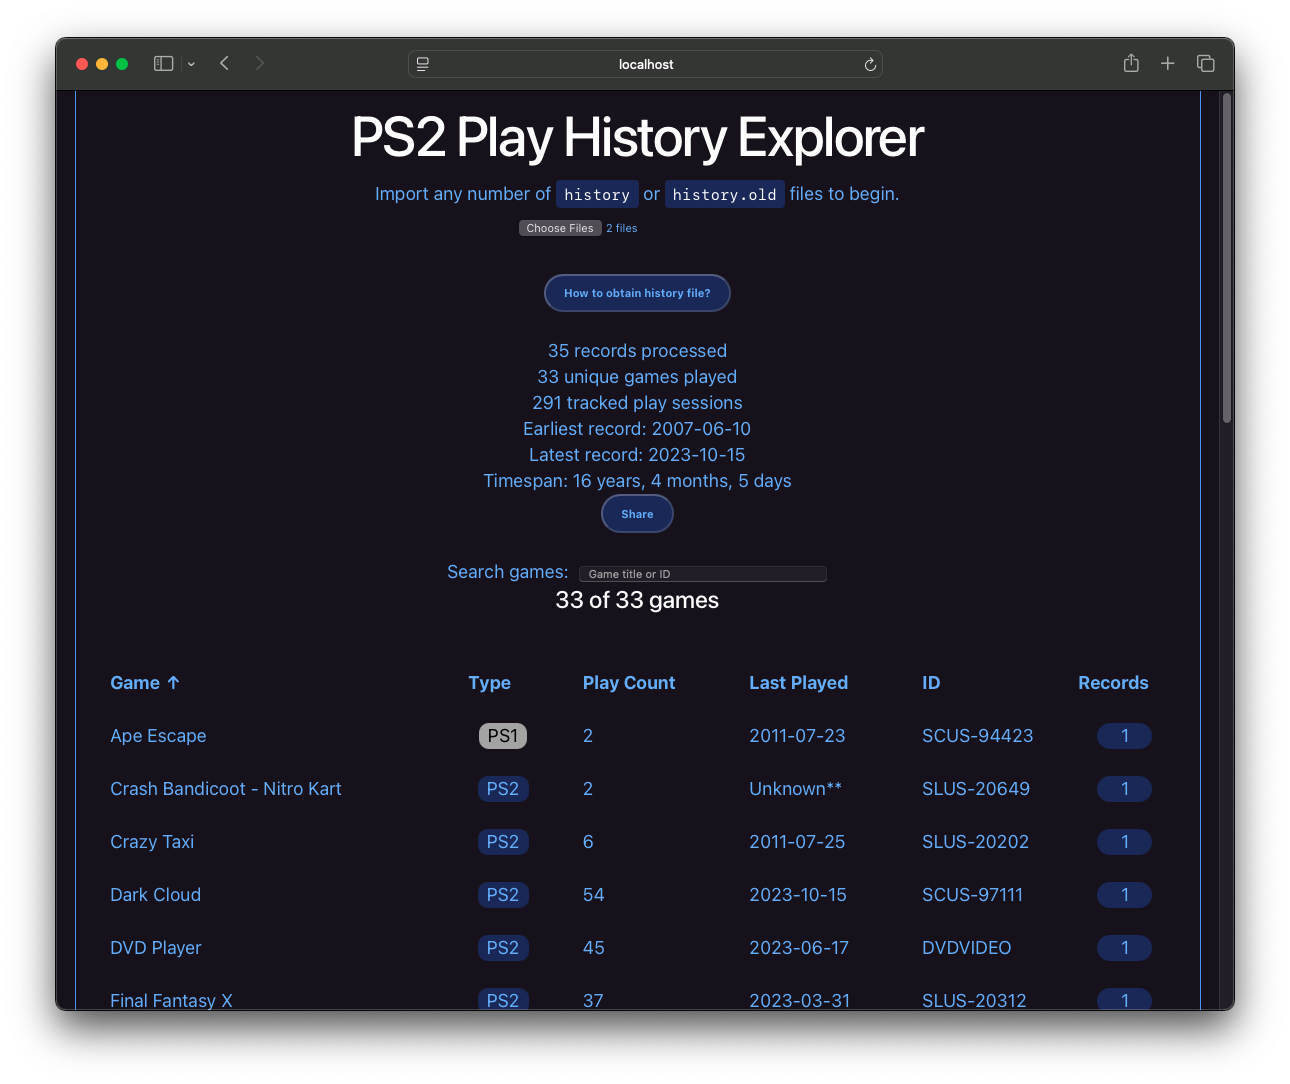
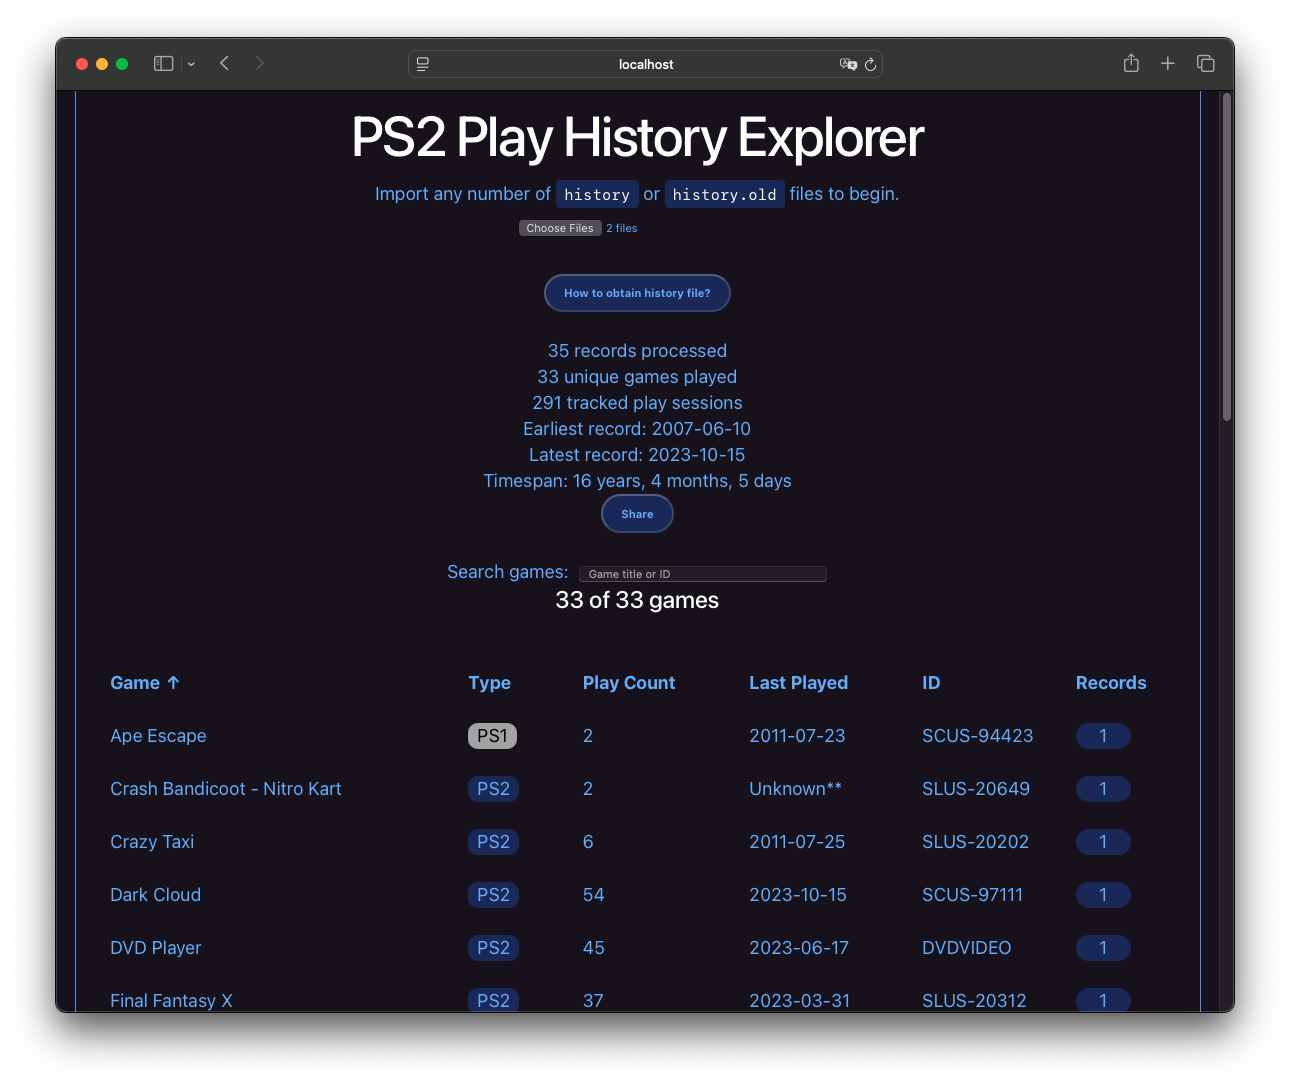
Cleaner error handling

diff --git a/src/App.tsx b/src/App.tsx
@@ -18,6 +18,7 @@ function App() {
   // States
   const [entries, setEntries] = useState<PlayHistoryEntry[]>([]);
   const [error, setError] = useState<string | null>(null);
+  const [imageShareError, setImageShareError] = useState<string | null>(null);
   const [games, setGames] = useState<GameSummary[]>([]);
   const [selectedGameId, setSelectedGameId] = useState<string | null>(null);
   const [sortColumn, setSortColumn] = useState<
@@ -84,7 +85,10 @@ function App() {
     } catch (err) {
       setIsDatabaseLoading(false);
       console.error(err);
+      if (err instanceof TypeError) {
+      }
       setError(`${String(err).replace(/Error:/, "")}`);
+      return;
     }
   }
 
@@ -115,7 +119,7 @@ function App() {
           );
 
           if (!response.ok) {
-            throw new Error(`Failed to load file: ${fileName}`);
+            throw new Error(`Failed to load file: ${fileName}.`);
           }
 
           const blob = await response.blob();
@@ -176,6 +180,8 @@ function App() {
   // ---------- Universal sharing functions ----------
 
   async function openShareWindow() {
+    setImageShareError(null);
+
     let topGames = findTopGames(games);
 
     // Generate and store share summary text
@@ -186,16 +192,23 @@ function App() {
       setShowShare(true);
       setShareImagePossible(false);
 
-      const shareImageBlob = await generateShareImage(summary, topGames);
+      try {
+        const shareImageBlob = await generateShareImage(summary, topGames);
 
-      if (shareImageBlob) {
-        // Generate saveable file from image blob for downloading
-        const imageFile = createShareImageFile(shareImageBlob);
-        setShareImageFile(imageFile);
+        if (shareImageBlob) {
+          // Generate saveable file from image blob for downloading
+          const imageFile = createShareImageFile(shareImageBlob);
+          setShareImageFile(imageFile);
 
-        // Make image URL for preview display in the Share window
-        const imageUrl = URL.createObjectURL(shareImageBlob);
-        setShareImageUrl(imageUrl);
+          // Make image URL for preview display in the Share window
+          const imageUrl = URL.createObjectURL(shareImageBlob);
+          setShareImageUrl(imageUrl);
+        }
+      } catch (err) {
+        console.error(err);
+        setImageShareError(
+          `Image generation failed: ${String(err).replace(/Error:/, "")}`,
+        );
       }
     }
   }
@@ -226,7 +239,7 @@ function App() {
     if (shareImageUrl) {
       window.open(shareImageUrl);
     } else {
-      throw new Error("No image available to download");
+      throw new Error("No image available to download.");
     }
   }
 
@@ -235,7 +248,7 @@ function App() {
     if (shareImageFile) {
       navigator.share({ files: [shareImageFile] });
     } else {
-      throw new Error("No image available to share");
+      throw new Error("No image available to share.");
     }
   }
 
@@ -283,7 +296,7 @@ function App() {
     if (shareText) {
       navigator.share({ text: shareText + `\n\nvia ${APP_URL}` });
     } else {
-      throw new Error("No text available to share");
+      throw new Error("No text available to share.");
     }
   }
 
@@ -667,6 +680,7 @@ function App() {
                 </p>
                 <br />
               </div>
+              <br />
               {!isSampleData && (
                 <button type="button" onClick={downloadAsCsv}>
                   <strong>Download as CSV</strong>
@@ -1066,13 +1080,32 @@ function App() {
                     </div>
                   ) : (
                     <div>
-                      <br />
-                      <div className="pulsing-text">
-                        <p>
-                          <strong>Generating image...</strong>
-                        </p>
-                      </div>
-                      <div className="loader"></div>
+                      {imageShareError ? (
+                        <div>
+                          <p>
+                            <strong>{imageShareError}</strong>
+                          </p>
+                          <br />
+                          <p>
+                            <strong>
+                              Please check your internet connection and try
+                              again.
+                            </strong>
+                          </p>
+                        </div>
+                      ) : (
+                        <div>
+                          <div>
+                            <br />
+                            <div className="pulsing-text">
+                              <p>
+                                <strong>Generating image...</strong>
+                              </p>
+                            </div>
+                            <div className="loader"></div>
+                          </div>
+                        </div>
+                      )}
                     </div>
                   )}
                 </div>

diff --git a/src/data/share.ts b/src/data/share.ts
@@ -37,7 +37,12 @@ export async function generateShareImage(
   bgGradient.addColorStop(1, "#173064");*/
 
   // Image background
-  await drawImageFromFile(ctx, "share-bg.png", 0, 0, width, height);
+  try {
+    await drawImageFromFile(ctx, "share-bg.png", 0, 0, width, height);
+  } catch (err) {
+    console.log(`Couldn't download background image: ${err}`);
+    throw new Error("Failed to download necessary assets.");
+  }
 
   // Main heading
   drawOutlinedText(
@@ -249,14 +254,19 @@ export async function generateShareImage(
   );
 
   // QR code embed
-  await drawImageFromFile(
-    ctx,
-    "page-qr-code.png",
-    width - 150 - 10,
-    height - 150 - 10,
-    150,
-    150,
-  );
+  try {
+    await drawImageFromFile(
+      ctx,
+      "page-qr-code.png",
+      width - 150 - 10,
+      height - 150 - 10,
+      150,
+      150,
+    );
+  } catch (err) {
+    console.log(`Couldn't download QR code image: ${err}`);
+    throw new Error("Failed to download necessary assets.");
+  }
 
   return new Promise<Blob | null>((resolve) => {
     canvas.toBlob(resolve, "image/png");

diff --git a/src/parser/database.ts b/src/parser/database.ts
@@ -4,7 +4,16 @@ export interface DatabaseEntry {
 }
 
 export async function loadGameDatabase(): Promise<Map<string, DatabaseEntry>> {
-  const response = await fetch(`${import.meta.env.BASE_URL}/games.csv`);
+  let response: Response;
+
+  try {
+    response = await fetch(`${import.meta.env.BASE_URL}/games.csv`);
+  } catch (err) {
+    console.log(`Couldn't download game database: ${err}`);
+    throw new Error(
+      "Failed to load game title database. Please check your internet connection.",
+    );
+  }
 
   if (!response.ok) {
     throw new Error(

diff --git a/src/App.css b/src/App.css
@@ -148,11 +148,11 @@ input[type="file"] {
 }
 
 .footer-buttons button {
-  min-width: 80px;
+  min-width: 85px;
 }
 
 .share-buttons button {
-  min-width: 140px;
+  min-width: 160px;
 }
 
 @media screen and (min-width: 481px) {
@@ -162,7 +162,7 @@ input[type="file"] {
 }
 
 .share-tab-row button {
-  min-width: 80px;
+  min-width: 90px;
 }
 
 .share-image-preview {

diff --git a/README.md b/README.md
@@ -46,7 +46,7 @@ There's some logic that moves entries between `history` and `history.old` but I 
 ### What are the limitations of this data?
 
 - **Play count maxes out at 63 per-record.** One byte should be able to store up to 255, but I assume Sony only wanted the towers to have a resolution of 63 (maybe to make it more reasonable for a user to reach maximum towers on their favourite games?). Either way, we can't do anything about this (retro- or pro-actively) so this app communicates to the user when their play count has been capped on one or more records.
-- **There's no indication of a game's platform.** Even the game ID format is the same between PS1 and PS2, as far as I can tell. I chose to determine platform by checking which database the game's title was pulled from. which should be accurate in all cases where a title match is available.
+- **There's no indication of a game's platform.** Even the game ID format is the same between PS1 and PS2, as far as I can tell. I chose to determine platform by checking which database the game's title was pulled from, which should be accurate in all cases where a title match is available.
 - **Most people's PS2 clock batteries have expired by now.** This produces records with a date of 2000-01-01, which overwrites the existing date even if it should be in the future. For this reason, I've chosen to replace all January 2000 dates with `Unknown`, which **intentionally sort as if they are the newest entries.** I did this because, logically, the records made on a dead clock battery are likely to be newer than the ones made when it was working. If a user replaces their clock battery, the correct date will be written again as soon as they relaunch each game.
 - **There is no perfect game title database.** I used [GameDB-PSX](https://github.com/niemasd/GameDB-PSX) and [PS2-OPL-CFG](https://github.com/VTSTech/PS2-OPL-CFG) for PS1 and PS2 respectively, but I still had missing entries to add by hand for my sample data. I'm fairly sure PS2 games carry their title in their disc's metadata, so Sony could've stored it in the history files if they desired, but it would've been unnecessary for the purpose it was used for.
 - **Some homebrew and backup loaders do not respect this file.** [Open-PS2-Loader](https://github.com/ps2homebrew/Open-PS2-Loader) does by default, [DKWDRV](https://github.com/DKWDRV/DKWDRV) now does if manually configured (as of `1.7.6i`). [PCSX2](https://github.com/PCSX2/pcsx2) does emulate enough of the BIOS to write history data if `BIOS > Fast Boot` is disabled in the settings.
